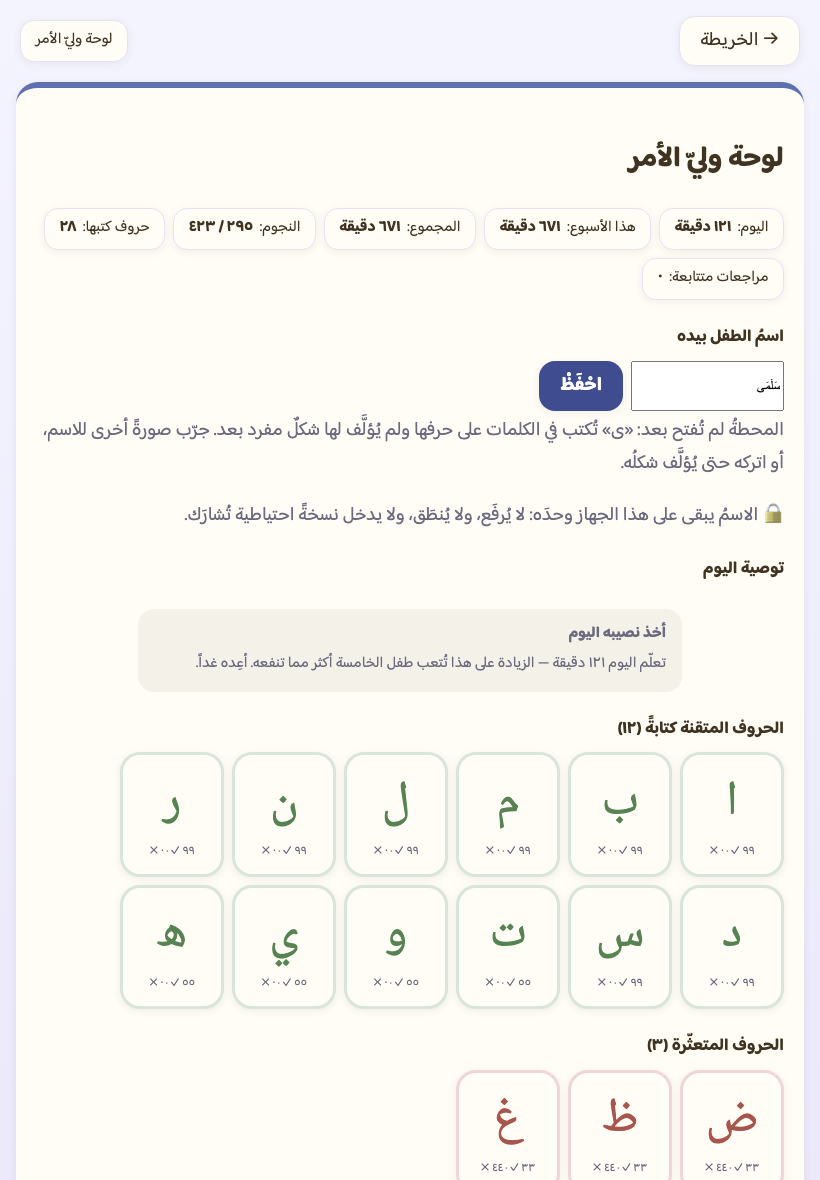
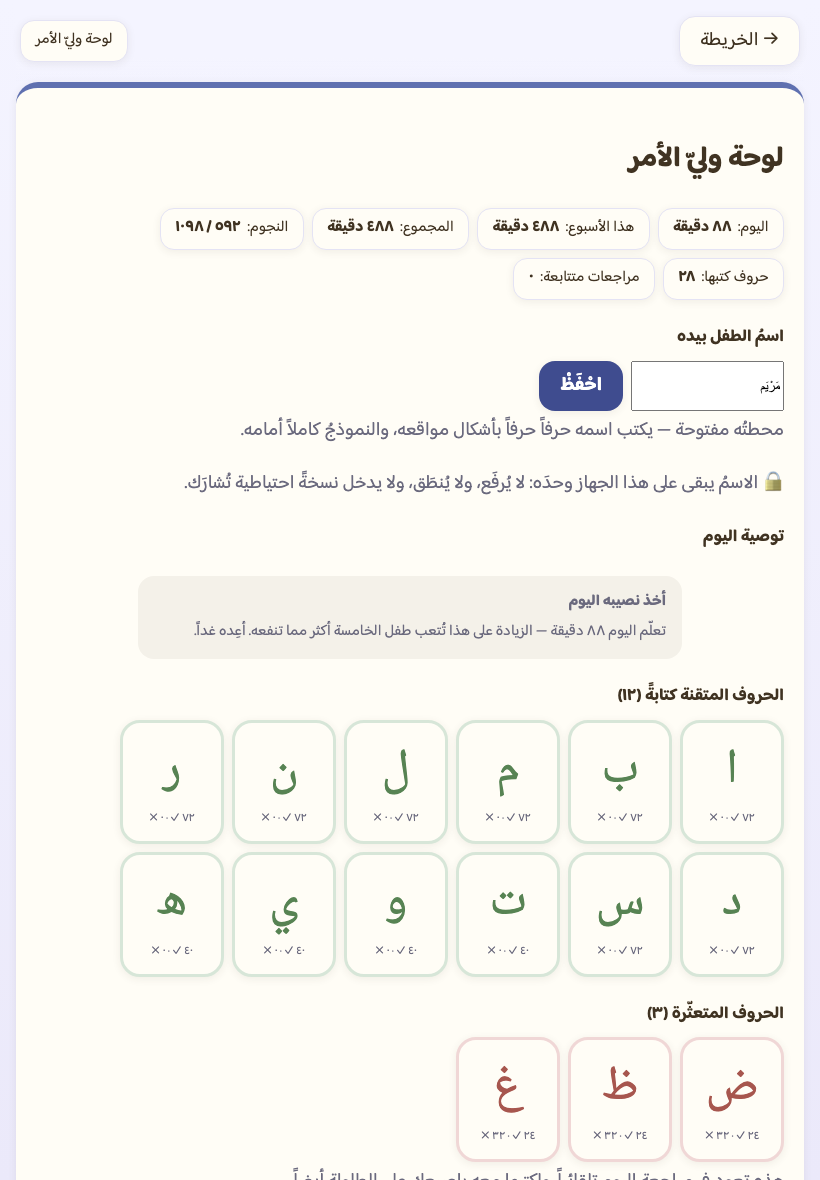
النشرة v25: حسم المراجعة كاملاً + لقطات التعريف من الحاضر

diff --git a/app/sw.js b/app/sw.js
@@ -102,7 +102,12 @@
 //     `js/gate.js` و`js/pen.js` — ومن غيرها يبقى الطفلُ في محطةٍ بلا مخرج.
 //   · **وفائضُ اللوح الرأسيّ** (`css/app.css`): طفلٌ يسحب الشاشةَ ليرى بقيّةَ لوحه
 //     وهو يكتب — وهو جنسُ ما أخرج الطفلةَ من الجهاز في بلاغ الميدان ٢.
-const VERSION = 'v24';
+// v25: حسمُ المراجعة المستقلة (جلسة ح + حكمُ الميزان): طريقُ الكلمة إلى الإملاء
+//   موصولٌ مقيساً — المراجعةُ تُنضج بدرجات `fade.js` بأعيانها، والبستانُ يكسب
+//   درجةَ النسخ الحر، و`HITS_PER_STEP=1` بحكم المالك، ومحطةُ الاسم في موضعها
+//   المعلَّل، و٣ جملٍ سقفاً — ولقطاتُ التعريف أُعيدت من الحاضر (أحفورتا
+//   التاءِ بنقطةٍ و`false` زالتا).
+const VERSION = 'v25';
 const SHELL_CACHE = `uktub-shell-${VERSION}`;
 const AUDIO_CACHE = 'uktub-audio';          // ثابتٌ عمداً — لا يحمل VERSION
 const KEEP = [SHELL_CACHE, AUDIO_CACHE];
